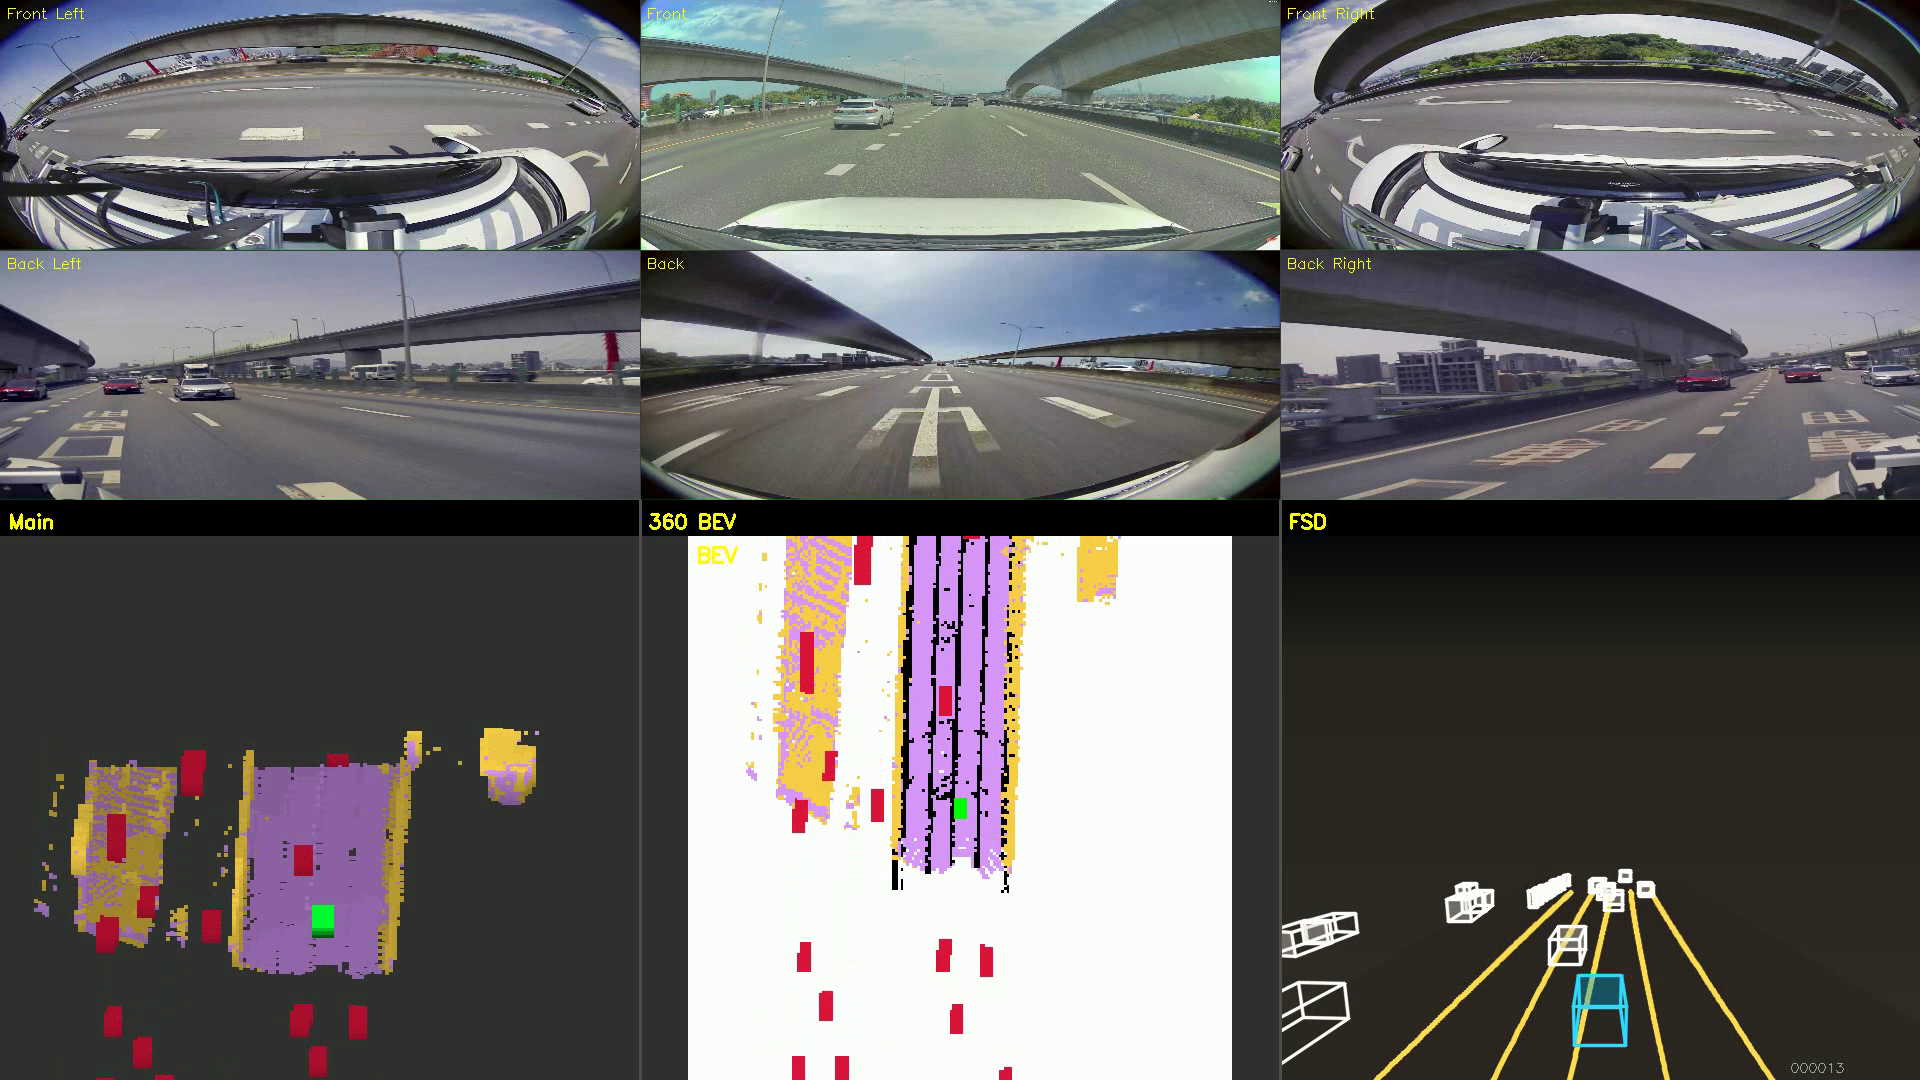
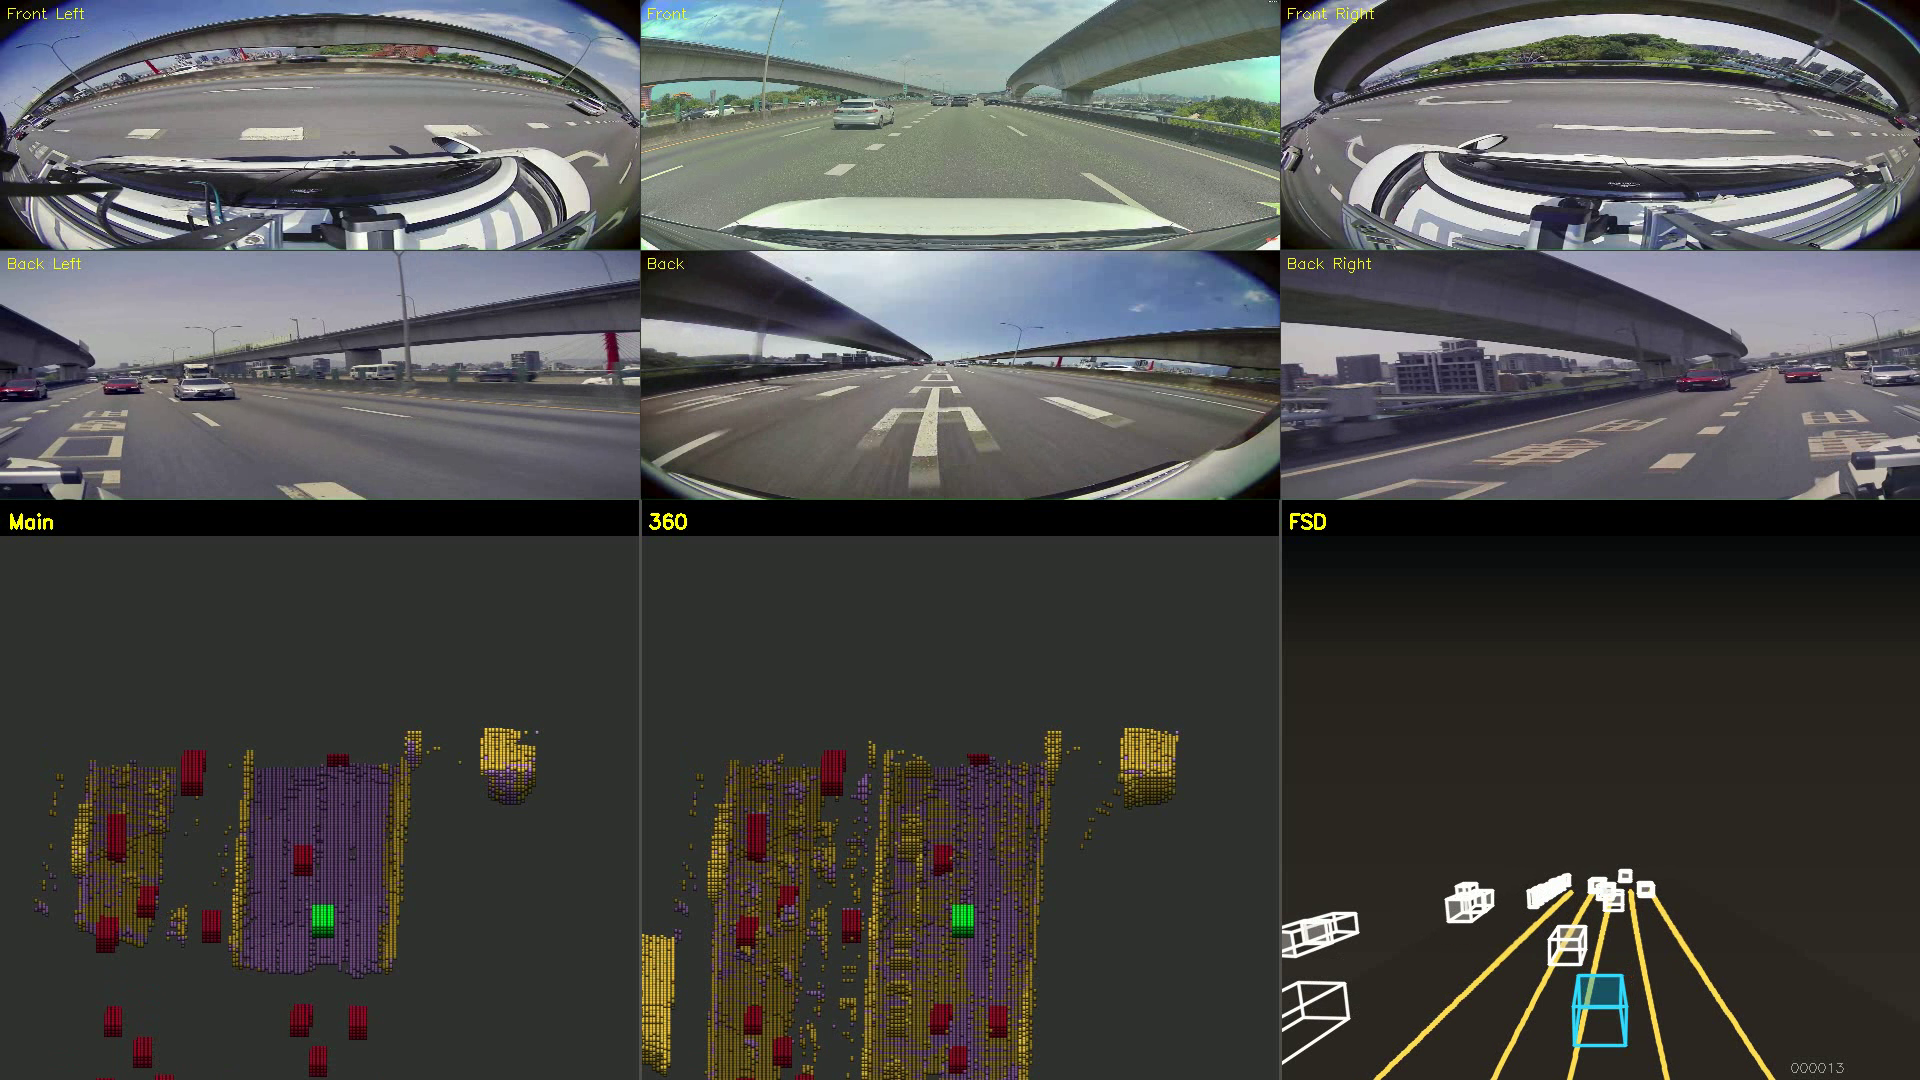
Auto backup 2026-05-04 04:50 |  3 files changed, 40 insertions(+), 39 deletions(-)

diff --git a/tools/compare_video/renderer.py b/tools/compare_video/renderer.py
@@ -531,7 +531,8 @@ def render_comparison_video(
 
 def render_three_view_video(
     frame_ids,
-    occ_dir,
+    main_occ_dir,
+    occ_360_dir,
     get_cameras,
     out_path,
     box_by_frame=None,
@@ -546,13 +547,19 @@ def render_three_view_video(
     cam_h=500,
     bar_h=36,
     grid_shape=(200, 200, 20),
-    voxel_style='flat',
+    voxel_style='shaded',
     z_offset=-2.0,
 ):
+    """
+    Three-view layout (top: 6-cam strip; bottom: 3 panels)
+      Panel 1 (Main)   : chase-cam render of main_occ_dir (front-only semantics)
+      Panel 2 (360)    : chase-cam render of occ_360_dir  (360° semantics)
+      Panel 3 (FSD)    : Tesla FSD-style perspective with lanes + boxes + ego
+    """
     panel_w   = total_w // 3
     occ_h     = total_h - cam_h
     content_h = occ_h - bar_h
-    cam_strip_w = panel_w * 3   # may be slightly less than total_w due to int div
+    cam_strip_w = panel_w * 3
 
     os.makedirs(os.path.dirname(out_path) or '.', exist_ok=True)
     fourcc = cv2.VideoWriter_fourcc(*'mp4v')
@@ -561,34 +568,33 @@ def render_three_view_video(
         raise RuntimeError(f"VideoWriter failed to open: {out_path}")
 
     print(f"Three-view canvas {total_w}x{total_h} | cam_h={cam_h} "
-          f"panels=3 x {panel_w}x{content_h}")
+          f"panels=3 x {panel_w}x{content_h} | voxel_style={voxel_style}")
 
-    labels = ['Main', '360 BEV', 'FSD']
+    labels = ['Main', '360', 'FSD']
 
     for frame_id in tqdm(frame_ids, desc='Rendering'):
         canvas = np.zeros((total_h, total_w, 3), dtype=np.uint8)
 
-        # Camera strip
+        # ── Camera strip ──
         cam_paths = get_cameras(frame_id) or {}
         cam_strip = _render_cam_strip(cam_paths, cam_strip_w, cam_h)
         canvas[:cam_h, :cam_strip_w] = cam_strip
 
-        # Load occupancy once
-        npz  = os.path.join(occ_dir, frame_id, 'labels.npz')
-        grid = _load_grid(npz, grid_shape)
+        # ── Load both occupancy grids ──
+        main_grid = _load_grid(os.path.join(main_occ_dir, frame_id, 'labels.npz'),
+                               grid_shape)
+        grid_360  = _load_grid(os.path.join(occ_360_dir,  frame_id, 'labels.npz'),
+                               grid_shape)
 
-        # Pose and lane→ego transform (shared by BEV overlay and FSD panel)
-        T_inv = None
-        if pose_dict and frame_id in pose_dict:
-            T_inv = np.linalg.inv(pose_dict[frame_id]['matrix'])
-
+        # ── Pose & lane→ego (only needed for FSD panel) ──
         lane_pts_ego = []
-        if lane_pts_world and T_inv is not None:
+        if lane_pts_world and pose_dict and frame_id in pose_dict:
+            T_inv = np.linalg.inv(pose_dict[frame_id]['matrix'])
             for lane_w in lane_pts_world:
                 ones = np.ones((len(lane_w), 1))
                 lane_pts_ego.append((T_inv @ np.hstack([lane_w, ones]).T).T[:, :3])
 
-        # Boxes for FSD (key is frame_id stripped of leading zeros)
+        # ── Boxes for FSD ──
         boxes_fsd = None
         if box_by_frame:
             try:
@@ -600,27 +606,15 @@ def render_three_view_video(
                 m = b['score'] >= score_thresh
                 boxes_fsd = b['boxes_lidar'][m]
 
-        # ── Panel 1: Main 3D chase-cam ──
-        img_main = render_chase_cam(grid, elev, content_h, panel_w,
+        # ── Render the three panels ──
+        img_main = render_chase_cam(main_grid, elev, content_h, panel_w,
                                     voxel_style, z_offset=z_offset)
+        img_360  = render_chase_cam(grid_360,  elev, content_h, panel_w,
+                                    voxel_style, z_offset=z_offset)
+        img_fsd  = render_fsd_view(panel_w, content_h,
+                                   lane_pts_ego, boxes_fsd, elev_deg=fsd_elev)
 
-        # ── Panel 2: 360 BEV ──
-        bev_grid = grid
-        if lane_pts_world and T_inv is not None:
-            bev_grid = _overlay_lanes(grid, lane_pts_world, T_inv, z_offset)
-        sz = min(panel_w, content_h)
-        bev_img  = render_bev(bev_grid, sz)
-        bev_panel = np.full((content_h, panel_w, 3), BG_COLOR, dtype=np.uint8)
-        x_off = (panel_w - sz) // 2
-        y_off = (content_h - sz) // 2
-        bev_panel[y_off:y_off + sz, x_off:x_off + sz] = bev_img
-
-        # ── Panel 3: FSD ──
-        img_fsd = render_fsd_view(panel_w, content_h,
-                                  lane_pts_ego, boxes_fsd, elev_deg=fsd_elev)
-
-        # Assemble
-        for i, (lbl, img) in enumerate(zip(labels, [img_main, bev_panel, img_fsd])):
+        for i, (lbl, img) in enumerate(zip(labels, [img_main, img_360, img_fsd])):
             x0  = i * panel_w
             bar = np.zeros((bar_h, panel_w, 3), dtype=np.uint8)
             cv2.putText(bar, lbl, (8, bar_h - 8),

diff --git a/tools/compare_video/run.py b/tools/compare_video/run.py
@@ -182,7 +182,7 @@ def main():
 
     args = parser.parse_args()
 
-    if len(args.dirs) != len(args.labels):
+    if not args.three_view and len(args.dirs) != len(args.labels):
         parser.error('--dirs and --labels must have the same number of entries')
 
     # Collect frame IDs from first dir
@@ -302,8 +302,11 @@ def main():
                 pose_dict_lane = pickle.load(f)
             print(f'Loaded pose_dict ({len(pose_dict_lane)} frames) from {args.pose_pkl}')
 
-    # Three-view layout: Main 3D | 360 BEV | FSD
+    # Three-view layout: Main | 360 | FSD
     if args.three_view:
+        if len(args.dirs) < 2:
+            parser.error('--three_view requires --dirs to provide TWO occupancy dirs '
+                         '(main_seg_dir 360_seg_dir)')
         box_by_frame = None
         if args.box_pkl and os.path.exists(args.box_pkl):
             import pickle
@@ -312,9 +315,13 @@ def main():
             box_by_frame = {str(int(b['frame_id'])): b for b in box_data}
             print(f'Loaded {len(box_by_frame)} box frames from {args.box_pkl}')
 
+        # Three-view defaults to shaded voxels unless user overrode it
+        voxel_style = 'shaded' if args.voxel_style == 'flat' else args.voxel_style
+
         render_three_view_video(
             frame_ids      = frame_ids,
-            occ_dir        = args.dirs[0],
+            main_occ_dir   = args.dirs[0],
+            occ_360_dir    = args.dirs[1],
             get_cameras    = get_cameras,
             out_path       = args.out,
             box_by_frame   = box_by_frame,
@@ -328,7 +335,7 @@ def main():
             total_h        = args.total_h,
             cam_h          = args.cam_h,
             grid_shape     = grid_shape,
-            voxel_style    = args.voxel_style,
+            voxel_style    = voxel_style,
             z_offset       = z_offset,
         )
         return
